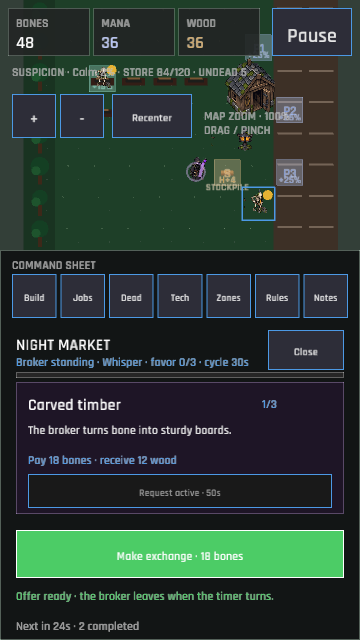
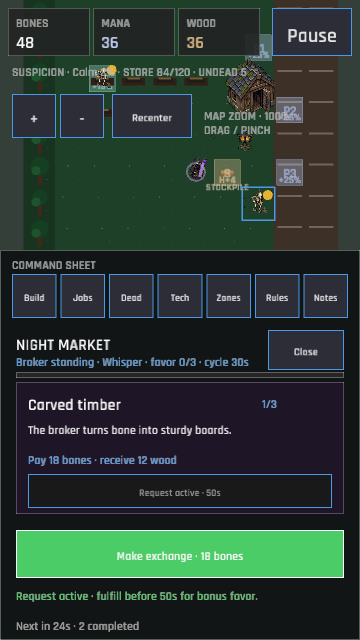
The active request speaks plainly before the exchange (contract status copy)
Market status text now distinguishes a normal ready offer from a locked broker request and gives the remaining fulfillment window on desktop and compact views. Refreshed contract captures verify the new copy stays inside the action surface.

Changed region(s): [[0.0306, 0.9062, 0.7639, 0.9375]]

diff --git a/src/ui/market.rs b/src/ui/market.rs
@@ -370,7 +370,15 @@ pub(super) fn draw_compact_market_panel(
 
 fn trade_status_label(ctx: &UiContext<'_>, ready: bool) -> String {
     if ready {
-        "Offer ready · the broker leaves when the timer turns.".to_owned()
+        ctx.session.progress.market.contract.as_ref().map_or_else(
+            || "Offer ready · the broker leaves when the timer turns.".to_owned(),
+            |contract| {
+                format!(
+                    "Request active · fulfill before {:.0}s for bonus favor.",
+                    contract.remaining_seconds
+                )
+            },
+        )
     } else if ctx.session.phase != crate::state::GamePhase::Playing {
         "Resume the cemetery before making an exchange.".to_owned()
     } else {
